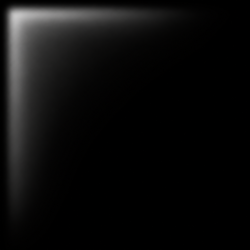
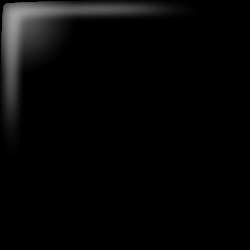
Match Mix V1 reflection and reposition floor arrow

Changed region(s): [[0.0, 0.0, 0.644, 0.812]]

diff --git a/src/kidsModeV2/videoui.c b/src/kidsModeV2/videoui.c
@@ -87,7 +87,6 @@
 #define ICON_X_PATH "/mnt/SDCARD/App/KidsModeV2/icon-X-54.png"
 #define SCREEN_REFLECTION_PATH \
     "/mnt/SDCARD/App/KidsModeV2/screen-reflection.png"
-#define SCREEN_REFLECTION_OPACITY_PERCENT 45
 
 typedef enum { SCREEN_CAROUSEL,
                SCREEN_PIN,
@@ -485,9 +484,9 @@ static SDL_Surface *loadScreenReflection(int size)
     if (scaled == NULL)
         return NULL;
 
-    // scaleAlphaSurface produces ARGB8888. The source is deliberately broad
-    // and bright so its soft gradient survives scaling; use the calibrated
-    // fraction below to match the subtler ScreenScraper Mix V1 reflection.
+    // scaleAlphaSurface produces ARGB8888. This matte was extracted from the
+    // pixels common to several ScreenScraper Mix V1 images, so its luminance
+    // already is the reference reflection's exact opacity.
     uint32_t *pixels = (uint32_t *)scaled->pixels;
     int pitch = scaled->pitch / 4;
     for (int y = 0; y < scaled->h; y++) {
@@ -496,10 +495,8 @@ static SDL_Surface *loadScreenReflection(int size)
             uint32_t red = (pixel >> 16) & 0xFF;
             uint32_t green = (pixel >> 8) & 0xFF;
             uint32_t blue = pixel & 0xFF;
-            uint32_t luminance =
-                (red * 30 + green * 59 + blue * 11 + 50) / 100;
             uint32_t alpha =
-                (luminance * SCREEN_REFLECTION_OPACITY_PERCENT + 50) / 100;
+                (red * 30 + green * 59 + blue * 11 + 50) / 100;
             if (alpha < 2)
                 alpha = 0;
             pixels[y * pitch + x] = (alpha << 24) | 0x00FFFFFF;
@@ -550,12 +547,13 @@ static void blendScreenReflection(SDL_Surface *reflection, int dst_x,
             uint8_t red, green, blue;
             SDL_GetRGB(readSurfacePixel(screen, screen_x, screen_y),
                        screen->format, &red, &green, &blue);
-            // Mix V1's reflection is a very light warm ivory rather than
-            // pure white. Screen-blend towards that tint so it can only
-            // brighten the artwork, never muddy or darken it.
+            // The reference samples use a neutral white reflection. The
+            // apparent tint in some covers comes from the artwork below it.
+            // Screen-blend towards white so the exact matte remains visible
+            // without muddying or darkening the artwork.
             red += ((255 - red) * 255 * alpha + 32512) / 65025;
-            green += ((255 - green) * 244 * alpha + 32512) / 65025;
-            blue += ((255 - blue) * 210 * alpha + 32512) / 65025;
+            green += ((255 - green) * 255 * alpha + 32512) / 65025;
+            blue += ((255 - blue) * 255 * alpha + 32512) / 65025;
             writeSurfacePixel(screen, screen_x, screen_y,
                               SDL_MapRGB(screen->format, red, green, blue));
         }
@@ -1134,8 +1132,12 @@ static void renderFloorIndicator(void)
                 SDL_BlitSurface(arrow_up, NULL, screen, &pos);
             }
             if (current_floor == FLOOR_VIDEOS && arrow_down != NULL) {
+                // Keep the floor arrow visually attached to the title. The
+                // second title line is centred at y=400; y=422 puts the
+                // arrow just below it instead of mixing it with the footer
+                // hints (PLAY / RESTART), which are centred at y=450.
                 SDL_Rect pos = {x - arrow_down->w / 2,
-                                (int)(450.0 * g_scale) - arrow_down->h / 2};
+                                (int)(422.0 * g_scale) - arrow_down->h / 2};
                 SDL_BlitSurface(arrow_down, NULL, screen, &pos);
             }
         }
